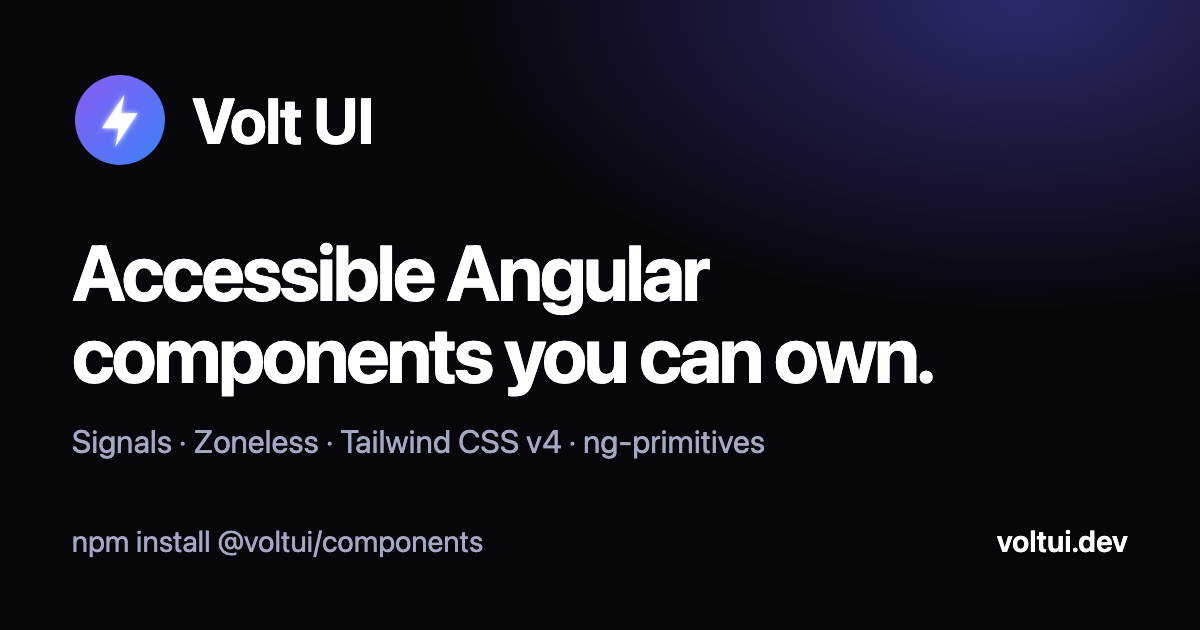
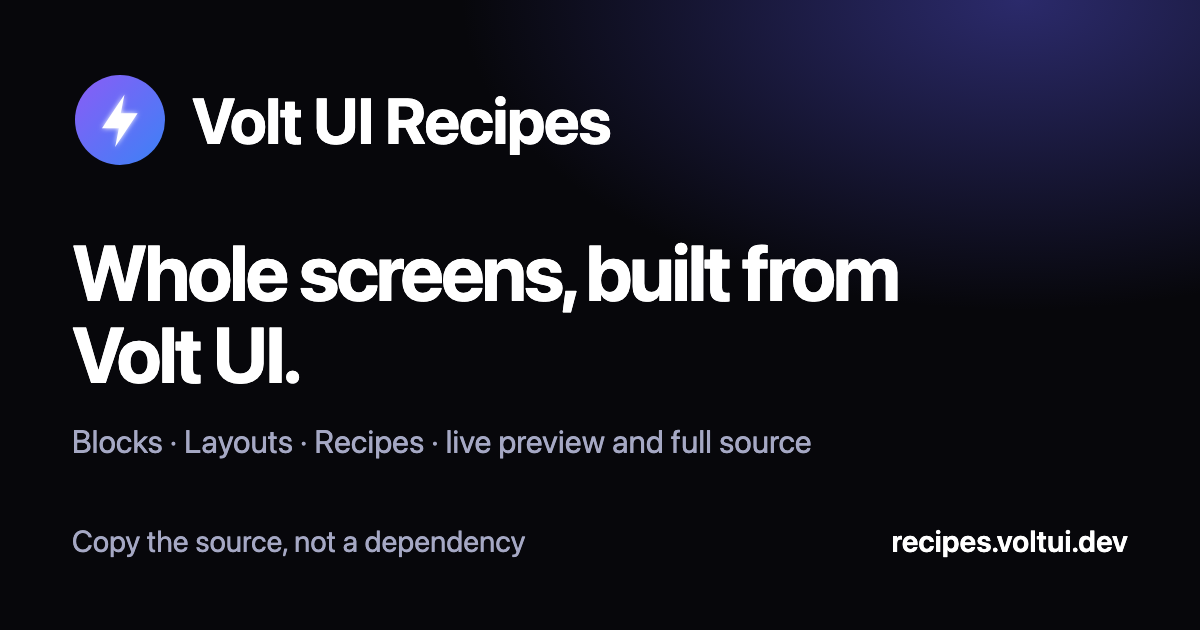
feat(seo): a Recipes home title, description and social card of its own
- Home title names what the site is: "Volt UI Recipes — Whole screens, built from Volt UI"
- Home description is the page's lede instead of two stitched gallery sentences
- apps/recipes/public/og.png is its own card; og:image:alt matches it in every locale
- theme-color for light and dark in both apps
- docs JSON-LD links the source to the published npm package

diff --git a/apps/recipes/src/app/lib/seo/seo.provider.ts b/apps/recipes/src/app/lib/seo/seo.provider.ts
@@ -38,7 +38,7 @@ export function provideSeo(): EnvironmentProviders {
           url: absoluteUrl(localizedPath(barePath(path), locale)),
           locale,
           locales: LOCALES,
-          imageAlt: t('seo.imageAlt'),
+          imageAlt: homeTitle(t),
           robots: 'noindex, follow',
         });
       };
@@ -70,7 +70,7 @@ export function provideSeo(): EnvironmentProviders {
             url: absoluteUrl(localizedPath(bare, locale)),
             locale,
             locales: LOCALES,
-            imageAlt: t('seo.imageAlt'),
+            imageAlt: homeTitle(t),
             jsonLd: structuredData(entry, locale, t),
           });
         });
@@ -80,9 +80,14 @@ export function provideSeo(): EnvironmentProviders {
 
 type T = ReturnType<typeof injectAppI18n>['t'];
 
-/** Two published sentences, one per section that has one: localized without a new key. */
+/** The home page's own lede: what the site publishes and what every example comes with. */
 function homeDescription(t: T): string {
-  return `${t('gallery.blocks.description')} ${t('gallery.layouts.description')}`;
+  return t('recipes.home.lede');
+}
+
+/** `Volt UI Recipes — Whole screens, built from Volt UI`: the name alone says nothing to a searcher. */
+function homeTitle(t: T): string {
+  return `${SITE_NAME} — ${t('recipes.home.title').replace(/[.。]$/, '')}`;
 }
 
 function nameOf(entry: CatalogEntry, t: T): string {
@@ -101,7 +106,7 @@ function describe(entry: SeoEntry, t: T, locale: string): { title: string; descr
       };
     }
     case 'home':
-      return { title: SITE_NAME, description: homeDescription(t) };
+      return { title: homeTitle(t), description: homeDescription(t) };
     case 'listing':
       switch (entry.section) {
         case 'blocks':

diff --git a/apps/web/src/app/lib/seo/json-ld.ts b/apps/web/src/app/lib/seo/json-ld.ts
@@ -1,4 +1,4 @@
-import { GITHUB_URL, LICENSE_URL, SITE_NAME, SITE_ORIGIN, absoluteUrl } from './site';
+import { GITHUB_URL, LICENSE_URL, NPM_PACKAGES, SITE_NAME, SITE_ORIGIN, absoluteUrl } from './site';
 
 import {
   breadcrumbJsonLd as breadcrumb,
@@ -33,6 +33,8 @@ export function homeJsonLd(description: string): JsonLd[] {
       programmingLanguage: 'TypeScript',
       runtimePlatform: 'Angular',
       license: LICENSE_URL,
+      // The published library, the same code as this repository.
+      sameAs: NPM_PACKAGES[0].url,
       isPartOf: { '@id': `${SITE_ORIGIN}/#website` },
     },
   ];

diff --git a/apps/recipes/index.html b/apps/recipes/index.html
@@ -30,6 +30,8 @@
       })();
     </script>
     <meta name="viewport" content="width=device-width, initial-scale=1" />
+    <meta name="theme-color" content="#ffffff" media="(prefers-color-scheme: light)" />
+    <meta name="theme-color" content="#07070b" media="(prefers-color-scheme: dark)" />
     <link rel="icon" href="/favicon.ico" sizes="any" />
     <link rel="icon" type="image/svg+xml" href="favicon.svg" />
     <link rel="apple-touch-icon" href="/apple-touch-icon.png" />

diff --git a/apps/web/index.html b/apps/web/index.html
@@ -30,6 +30,8 @@
       })();
     </script>
     <meta name="viewport" content="width=device-width, initial-scale=1" />
+    <meta name="theme-color" content="#ffffff" media="(prefers-color-scheme: light)" />
+    <meta name="theme-color" content="#07070b" media="(prefers-color-scheme: dark)" />
     <link rel="icon" href="/favicon.ico" sizes="any" />
     <link rel="icon" type="image/svg+xml" href="favicon.svg" />
     <link rel="apple-touch-icon" href="/apple-touch-icon.png" />
